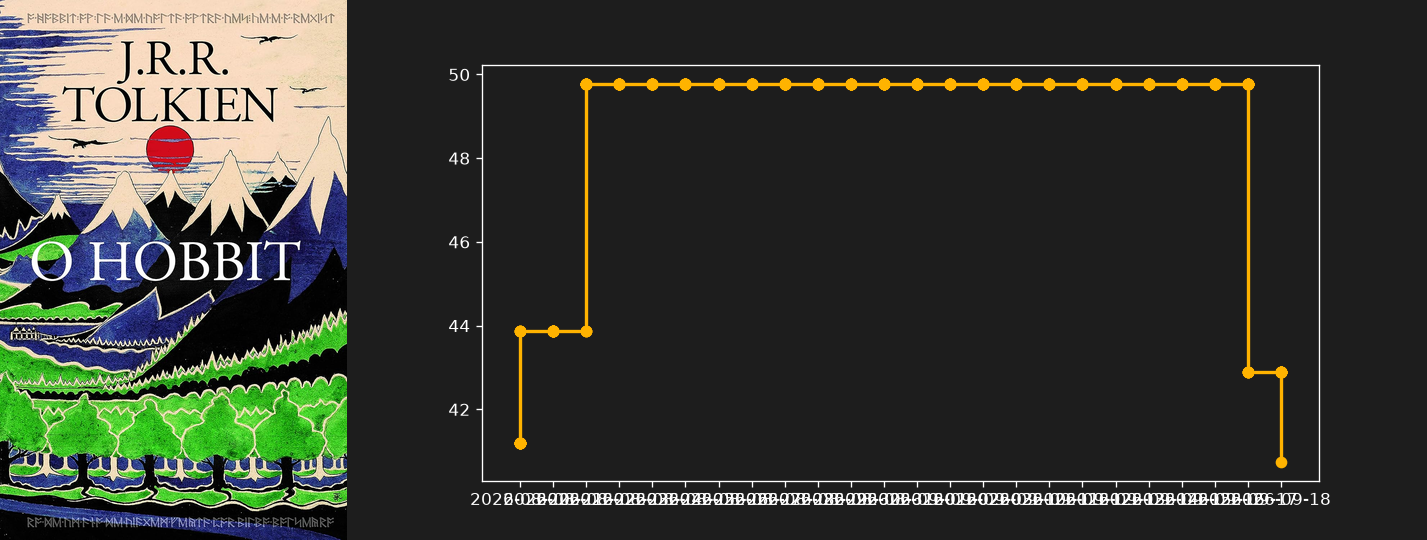
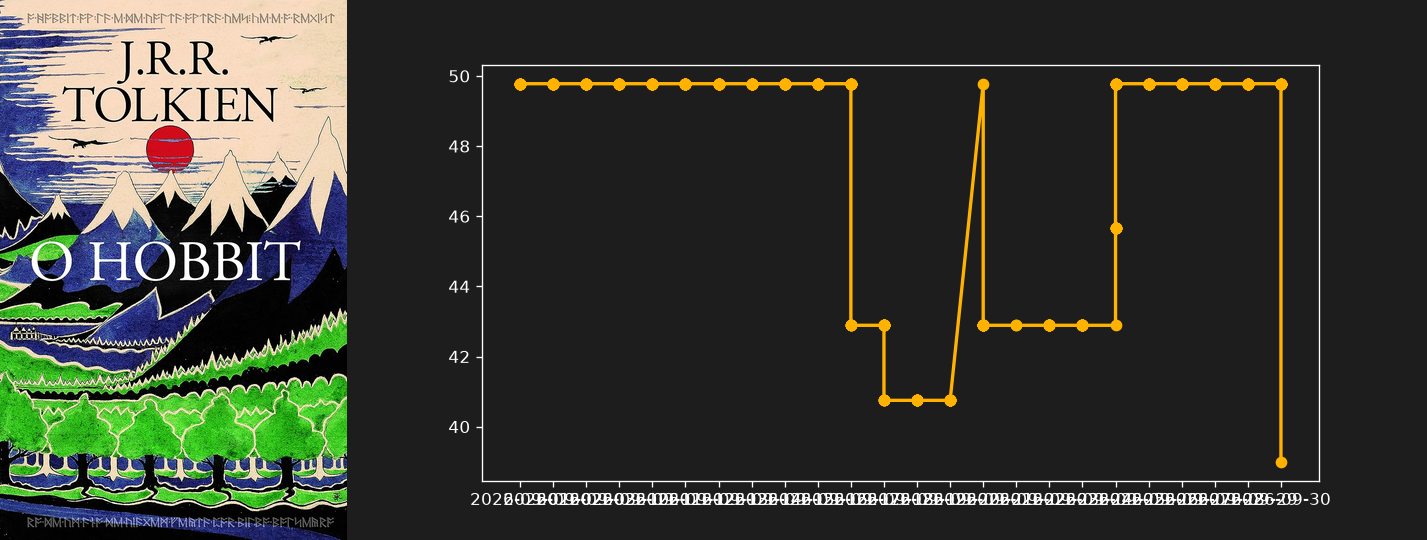
🤖 Bot Mac: Atualizando ofertas [skip ci]

diff --git a/index.html b/index.html
@@ -48,7 +48,7 @@
             <div class="flex flex-col mt-auto mb-5">
                 <div class="flex items-baseline gap-2">
                     <span class="text-2xl font-bold text-white tracking-tight">R$ 279,90</span>
-                    <span class="text-sm text-gray-500 line-through">R$ 265,95</span>
+                    <span class="text-sm text-gray-500 line-through">R$ 265,98</span>
                 </div>
             </div>
             <a href="https://link.amazon/B0bxqDHXJ" target="_blank" rel="nofollow noopener" class="w-full flex items-center justify-center gap-2 py-2.5 rounded-xl bg-white/5 hover:bg-bardo-gold hover:text-bardo-dark text-sm font-bold text-gray-200 transition-all">Comprar na Amazon</a>
@@ -68,7 +68,7 @@
             <div class="flex flex-col mt-auto mb-5">
                 <div class="flex items-baseline gap-2">
                     <span class="text-2xl font-bold text-white tracking-tight">R$ 60,57</span>
-                    <span class="text-sm text-gray-500 line-through">R$ 63,41</span>
+                    <span class="text-sm text-gray-500 line-through">R$ 63,40</span>
                 </div>
             </div>
             <a href="https://link.amazon/B05C027gt" target="_blank" rel="nofollow noopener" class="w-full flex items-center justify-center gap-2 py-2.5 rounded-xl bg-white/5 hover:bg-bardo-gold hover:text-bardo-dark text-sm font-bold text-gray-200 transition-all">Comprar na Amazon</a>
@@ -88,7 +88,7 @@
             <div class="flex flex-col mt-auto mb-5">
                 <div class="flex items-baseline gap-2">
                     <span class="text-2xl font-bold text-white tracking-tight">R$ 49,47</span>
-                    <span class="text-sm text-gray-500 line-through">R$ 46,56</span>
+                    <span class="text-sm text-gray-500 line-through">R$ 46,57</span>
                 </div>
             </div>
             <a href="https://link.amazon/B07BZ9Phr" target="_blank" rel="nofollow noopener" class="w-full flex items-center justify-center gap-2 py-2.5 rounded-xl bg-white/5 hover:bg-bardo-gold hover:text-bardo-dark text-sm font-bold text-gray-200 transition-all">Comprar na Amazon</a>
@@ -115,7 +115,7 @@
         </div>
     </article>
     <article class="relative flex flex-col bg-surface rounded-2xl border border-white/5 overflow-hidden hover:border-bardo-gold/40 transition-all duration-300 group shadow-lg">
-        
+        <div class="absolute top-3 left-3 z-10"><span class="px-2.5 py-1 text-[11px] font-bold uppercase tracking-wider text-emerald-400 bg-emerald-500/10 border border-emerald-500/20 rounded-full backdrop-blur-md shadow-lg">Abaixo da Média</span></div>
         <!-- Vitrine com Efeito Hover Swap -->
         <div class="relative h-64 w-full bg-gradient-to-b from-white/[0.03] to-transparent border-b border-white/5 overflow-hidden">
             <!-- Imagem 1: Capa (Soma ao Hover) -->
@@ -127,8 +127,8 @@
             <h3 class="text-base font-semibold text-gray-100 leading-snug line-clamp-2 mb-4 group-hover:text-bardo-gold transition-colors">O Hobbit + pôster</h3>
             <div class="flex flex-col mt-auto mb-5">
                 <div class="flex items-baseline gap-2">
-                    <span class="text-2xl font-bold text-white tracking-tight">R$ 49,78</span>
-                    <span class="text-sm text-gray-500 line-through">R$ 47,68</span>
+                    <span class="text-2xl font-bold text-white tracking-tight">R$ 39,00</span>
+                    <span class="text-sm text-gray-500 line-through">R$ 47,66</span>
                 </div>
             </div>
             <a href="https://link.amazon/B05Sr7Nr7" target="_blank" rel="nofollow noopener" class="w-full flex items-center justify-center gap-2 py-2.5 rounded-xl bg-white/5 hover:bg-bardo-gold hover:text-bardo-dark text-sm font-bold text-gray-200 transition-all">Comprar na Amazon</a>
@@ -148,7 +148,7 @@
             <div class="flex flex-col mt-auto mb-5">
                 <div class="flex items-baseline gap-2">
                     <span class="text-2xl font-bold text-white tracking-tight">R$ 160,65</span>
-                    <span class="text-sm text-gray-500 line-through">R$ 145,46</span>
+                    <span class="text-sm text-gray-500 line-through">R$ 145,50</span>
                 </div>
             </div>
             <a href="https://link.amazon/B04OFbHZF" target="_blank" rel="nofollow noopener" class="w-full flex items-center justify-center gap-2 py-2.5 rounded-xl bg-white/5 hover:bg-bardo-gold hover:text-bardo-dark text-sm font-bold text-gray-200 transition-all">Comprar na Amazon</a>
@@ -188,7 +188,7 @@
             <div class="flex flex-col mt-auto mb-5">
                 <div class="flex items-baseline gap-2">
                     <span class="text-2xl font-bold text-white tracking-tight">R$ 218,11</span>
-                    <span class="text-sm text-gray-500 line-through">R$ 222,86</span>
+                    <span class="text-sm text-gray-500 line-through">R$ 222,85</span>
                 </div>
             </div>
             <a href="https://link.amazon/B0cOS4omj" target="_blank" rel="nofollow noopener" class="w-full flex items-center justify-center gap-2 py-2.5 rounded-xl bg-white/5 hover:bg-bardo-gold hover:text-bardo-dark text-sm font-bold text-gray-200 transition-all">Comprar na Amazon</a>
@@ -228,7 +228,7 @@
             <div class="flex flex-col mt-auto mb-5">
                 <div class="flex items-baseline gap-2">
                     <span class="text-2xl font-bold text-white tracking-tight">R$ 82,94</span>
-                    <span class="text-sm text-gray-500 line-through">R$ 83,83</span>
+                    <span class="text-sm text-gray-500 line-through">R$ 83,82</span>
                 </div>
             </div>
             <a href="https://link.amazon/B01CIGwaZ" target="_blank" rel="nofollow noopener" class="w-full flex items-center justify-center gap-2 py-2.5 rounded-xl bg-white/5 hover:bg-bardo-gold hover:text-bardo-dark text-sm font-bold text-gray-200 transition-all">Comprar na Amazon</a>
@@ -248,7 +248,7 @@
             <div class="flex flex-col mt-auto mb-5">
                 <div class="flex items-baseline gap-2">
                     <span class="text-2xl font-bold text-white tracking-tight">R$ 414,48</span>
-                    <span class="text-sm text-gray-500 line-through">R$ 417,00</span>
+                    <span class="text-sm text-gray-500 line-through">R$ 416,99</span>
                 </div>
             </div>
             <a href="https://link.amazon/B0czAwuOp" target="_blank" rel="nofollow noopener" class="w-full flex items-center justify-center gap-2 py-2.5 rounded-xl bg-white/5 hover:bg-bardo-gold hover:text-bardo-dark text-sm font-bold text-gray-200 transition-all">Comprar na Amazon</a>
@@ -288,7 +288,7 @@
             <div class="flex flex-col mt-auto mb-5">
                 <div class="flex items-baseline gap-2">
                     <span class="text-2xl font-bold text-white tracking-tight">R$ 83,65</span>
-                    <span class="text-sm text-gray-500 line-through">R$ 81,57</span>
+                    <span class="text-sm text-gray-500 line-through">R$ 81,58</span>
                 </div>
             </div>
             <a href="https://link.amazon/B0bJ5jTSU" target="_blank" rel="nofollow noopener" class="w-full flex items-center justify-center gap-2 py-2.5 rounded-xl bg-white/5 hover:bg-bardo-gold hover:text-bardo-dark text-sm font-bold text-gray-200 transition-all">Comprar na Amazon</a>
@@ -348,7 +348,7 @@
             <div class="flex flex-col mt-auto mb-5">
                 <div class="flex items-baseline gap-2">
                     <span class="text-2xl font-bold text-white tracking-tight">R$ 59,75</span>
-                    <span class="text-sm text-gray-500 line-through">R$ 60,51</span>
+                    <span class="text-sm text-gray-500 line-through">R$ 60,50</span>
                 </div>
             </div>
             <a href="https://link.amazon/B00tEF0jN" target="_blank" rel="nofollow noopener" class="w-full flex items-center justify-center gap-2 py-2.5 rounded-xl bg-white/5 hover:bg-bardo-gold hover:text-bardo-dark text-sm font-bold text-gray-200 transition-all">Comprar na Amazon</a>
@@ -368,7 +368,7 @@
             <div class="flex flex-col mt-auto mb-5">
                 <div class="flex items-baseline gap-2">
                     <span class="text-2xl font-bold text-white tracking-tight">R$ 120,60</span>
-                    <span class="text-sm text-gray-500 line-through">R$ 104,95</span>
+                    <span class="text-sm text-gray-500 line-through">R$ 104,99</span>
                 </div>
             </div>
             <a href="https://link.amazon/B0g8PJdyP" target="_blank" rel="nofollow noopener" class="w-full flex items-center justify-center gap-2 py-2.5 rounded-xl bg-white/5 hover:bg-bardo-gold hover:text-bardo-dark text-sm font-bold text-gray-200 transition-all">Comprar na Amazon</a>
@@ -408,7 +408,7 @@
             <div class="flex flex-col mt-auto mb-5">
                 <div class="flex items-baseline gap-2">
                     <span class="text-2xl font-bold text-white tracking-tight">R$ 130,50</span>
-                    <span class="text-sm text-gray-500 line-through">R$ 129,06</span>
+                    <span class="text-sm text-gray-500 line-through">R$ 129,07</span>
                 </div>
             </div>
             <a href="https://link.amazon/B0cBFS3o1" target="_blank" rel="nofollow noopener" class="w-full flex items-center justify-center gap-2 py-2.5 rounded-xl bg-white/5 hover:bg-bardo-gold hover:text-bardo-dark text-sm font-bold text-gray-200 transition-all">Comprar na Amazon</a>
@@ -428,7 +428,7 @@
             <div class="flex flex-col mt-auto mb-5">
                 <div class="flex items-baseline gap-2">
                     <span class="text-2xl font-bold text-white tracking-tight">R$ 139,90</span>
-                    <span class="text-sm text-gray-500 line-through">R$ 144,34</span>
+                    <span class="text-sm text-gray-500 line-through">R$ 144,33</span>
                 </div>
             </div>
             <a href="https://link.amazon/B0f81O992" target="_blank" rel="nofollow noopener" class="w-full flex items-center justify-center gap-2 py-2.5 rounded-xl bg-white/5 hover:bg-bardo-gold hover:text-bardo-dark text-sm font-bold text-gray-200 transition-all">Comprar na Amazon</a>
@@ -468,7 +468,7 @@
             <div class="flex flex-col mt-auto mb-5">
                 <div class="flex items-baseline gap-2">
                     <span class="text-2xl font-bold text-white tracking-tight">R$ 53,90</span>
-                    <span class="text-sm text-gray-500 line-through">R$ 53,06</span>
+                    <span class="text-sm text-gray-500 line-through">R$ 53,07</span>
                 </div>
             </div>
             <a href="https://link.amazon/B0h9jyezR" target="_blank" rel="nofollow noopener" class="w-full flex items-center justify-center gap-2 py-2.5 rounded-xl bg-white/5 hover:bg-bardo-gold hover:text-bardo-dark text-sm font-bold text-gray-200 transition-all">Comprar na Amazon</a>
@@ -488,7 +488,7 @@
             <div class="flex flex-col mt-auto mb-5">
                 <div class="flex items-baseline gap-2">
                     <span class="text-2xl font-bold text-white tracking-tight">R$ 37,27</span>
-                    <span class="text-sm text-gray-500 line-through">R$ 38,50</span>
+                    <span class="text-sm text-gray-500 line-through">R$ 38,49</span>
                 </div>
             </div>
             <a href="https://link.amazon/B0eRR4Vm5" target="_blank" rel="nofollow noopener" class="w-full flex items-center justify-center gap-2 py-2.5 rounded-xl bg-white/5 hover:bg-bardo-gold hover:text-bardo-dark text-sm font-bold text-gray-200 transition-all">Comprar na Amazon</a>
@@ -588,7 +588,7 @@
             <div class="flex flex-col mt-auto mb-5">
                 <div class="flex items-baseline gap-2">
                     <span class="text-2xl font-bold text-white tracking-tight">R$ 210,79</span>
-                    <span class="text-sm text-gray-500 line-through">R$ 270,74</span>
+                    <span class="text-sm text-gray-500 line-through">R$ 270,59</span>
                 </div>
             </div>
             <a href="https://link.amazon/B046QvncM" target="_blank" rel="nofollow noopener" class="w-full flex items-center justify-center gap-2 py-2.5 rounded-xl bg-white/5 hover:bg-bardo-gold hover:text-bardo-dark text-sm font-bold text-gray-200 transition-all">Comprar na Amazon</a>
@@ -608,7 +608,7 @@
             <div class="flex flex-col mt-auto mb-5">
                 <div class="flex items-baseline gap-2">
                     <span class="text-2xl font-bold text-white tracking-tight">R$ 192,75</span>
-                    <span class="text-sm text-gray-500 line-through">R$ 183,63</span>
+                    <span class="text-sm text-gray-500 line-through">R$ 183,65</span>
                 </div>
             </div>
             <a href="https://link.amazon/B037mPoB1" target="_blank" rel="nofollow noopener" class="w-full flex items-center justify-center gap-2 py-2.5 rounded-xl bg-white/5 hover:bg-bardo-gold hover:text-bardo-dark text-sm font-bold text-gray-200 transition-all">Comprar na Amazon</a>
@@ -648,7 +648,7 @@
             <div class="flex flex-col mt-auto mb-5">
                 <div class="flex items-baseline gap-2">
                     <span class="text-2xl font-bold text-white tracking-tight">R$ 53,94</span>
-                    <span class="text-sm text-gray-500 line-through">R$ 51,54</span>
+                    <span class="text-sm text-gray-500 line-through">R$ 51,55</span>
                 </div>
             </div>
             <a href="https://link.amazon/B0cIs9iDO" target="_blank" rel="nofollow noopener" class="w-full flex items-center justify-center gap-2 py-2.5 rounded-xl bg-white/5 hover:bg-bardo-gold hover:text-bardo-dark text-sm font-bold text-gray-200 transition-all">Comprar na Amazon</a>
@@ -668,7 +668,7 @@
             <div class="flex flex-col mt-auto mb-5">
                 <div class="flex items-baseline gap-2">
                     <span class="text-2xl font-bold text-white tracking-tight">R$ 52,21</span>
-                    <span class="text-sm text-gray-500 line-through">R$ 52,57</span>
+                    <span class="text-sm text-gray-500 line-through">R$ 52,56</span>
                 </div>
             </div>
             <a href="https://link.amazon/B0gViTEpL" target="_blank" rel="nofollow noopener" class="w-full flex items-center justify-center gap-2 py-2.5 rounded-xl bg-white/5 hover:bg-bardo-gold hover:text-bardo-dark text-sm font-bold text-gray-200 transition-all">Comprar na Amazon</a>
@@ -688,7 +688,7 @@
             <div class="flex flex-col mt-auto mb-5">
                 <div class="flex items-baseline gap-2">
                     <span class="text-2xl font-bold text-white tracking-tight">R$ 59,75</span>
-                    <span class="text-sm text-gray-500 line-through">R$ 50,22</span>
+                    <span class="text-sm text-gray-500 line-through">R$ 50,24</span>
                 </div>
             </div>
             <a href="https://link.amazon/B08nADndv" target="_blank" rel="nofollow noopener" class="w-full flex items-center justify-center gap-2 py-2.5 rounded-xl bg-white/5 hover:bg-bardo-gold hover:text-bardo-dark text-sm font-bold text-gray-200 transition-all">Comprar na Amazon</a>
@@ -748,7 +748,7 @@
             <div class="flex flex-col mt-auto mb-5">
                 <div class="flex items-baseline gap-2">
                     <span class="text-2xl font-bold text-white tracking-tight">R$ 72,65</span>
-                    <span class="text-sm text-gray-500 line-through">R$ 68,90</span>
+                    <span class="text-sm text-gray-500 line-through">R$ 68,91</span>
                 </div>
             </div>
             <a href="https://link.amazon/B053gl2cU" target="_blank" rel="nofollow noopener" class="w-full flex items-center justify-center gap-2 py-2.5 rounded-xl bg-white/5 hover:bg-bardo-gold hover:text-bardo-dark text-sm font-bold text-gray-200 transition-all">Comprar na Amazon</a>
@@ -768,7 +768,7 @@
             <div class="flex flex-col mt-auto mb-5">
                 <div class="flex items-baseline gap-2">
                     <span class="text-2xl font-bold text-white tracking-tight">R$ 62,59</span>
-                    <span class="text-sm text-gray-500 line-through">R$ 65,08</span>
+                    <span class="text-sm text-gray-500 line-through">R$ 65,07</span>
                 </div>
             </div>
             <a href="https://link.amazon/B09R1newk" target="_blank" rel="nofollow noopener" class="w-full flex items-center justify-center gap-2 py-2.5 rounded-xl bg-white/5 hover:bg-bardo-gold hover:text-bardo-dark text-sm font-bold text-gray-200 transition-all">Comprar na Amazon</a>
@@ -808,7 +808,7 @@
             <div class="flex flex-col mt-auto mb-5">
                 <div class="flex items-baseline gap-2">
                     <span class="text-2xl font-bold text-white tracking-tight">R$ 131,49</span>
-                    <span class="text-sm text-gray-500 line-through">R$ 161,27</span>
+                    <span class="text-sm text-gray-500 line-through">R$ 161,20</span>
                 </div>
             </div>
             <a href="https://link.amazon/B02R68ory" target="_blank" rel="nofollow noopener" class="w-full flex items-center justify-center gap-2 py-2.5 rounded-xl bg-white/5 hover:bg-bardo-gold hover:text-bardo-dark text-sm font-bold text-gray-200 transition-all">Comprar na Amazon</a>
@@ -848,7 +848,7 @@
             <div class="flex flex-col mt-auto mb-5">
                 <div class="flex items-baseline gap-2">
                     <span class="text-2xl font-bold text-white tracking-tight">R$ 473,33</span>
-                    <span class="text-sm text-gray-500 line-through">R$ 415,10</span>
+                    <span class="text-sm text-gray-500 line-through">R$ 415,25</span>
                 </div>
             </div>
             <a href="https://link.amazon/B04zvHdbV" target="_blank" rel="nofollow noopener" class="w-full flex items-center justify-center gap-2 py-2.5 rounded-xl bg-white/5 hover:bg-bardo-gold hover:text-bardo-dark text-sm font-bold text-gray-200 transition-all">Comprar na Amazon</a>
@@ -908,7 +908,7 @@
             <div class="flex flex-col mt-auto mb-5">
                 <div class="flex items-baseline gap-2">
                     <span class="text-2xl font-bold text-white tracking-tight">R$ 67,16</span>
-                    <span class="text-sm text-gray-500 line-through">R$ 64,20</span>
+                    <span class="text-sm text-gray-500 line-through">R$ 64,21</span>
                 </div>
             </div>
             <a href="https://link.amazon/B0dQomOl4" target="_blank" rel="nofollow noopener" class="w-full flex items-center justify-center gap-2 py-2.5 rounded-xl bg-white/5 hover:bg-bardo-gold hover:text-bardo-dark text-sm font-bold text-gray-200 transition-all">Comprar na Amazon</a>
@@ -948,7 +948,7 @@
             <div class="flex flex-col mt-auto mb-5">
                 <div class="flex items-baseline gap-2">
                     <span class="text-2xl font-bold text-white tracking-tight">R$ 153,09</span>
-                    <span class="text-sm text-gray-500 line-through">R$ 160,63</span>
+                    <span class="text-sm text-gray-500 line-through">R$ 160,62</span>
                 </div>
             </div>
             <a href="https://link.amazon/B0fmYiyYt" target="_blank" rel="nofollow noopener" class="w-full flex items-center justify-center gap-2 py-2.5 rounded-xl bg-white/5 hover:bg-bardo-gold hover:text-bardo-dark text-sm font-bold text-gray-200 transition-all">Comprar na Amazon</a>
@@ -988,7 +988,7 @@
             <div class="flex flex-col mt-auto mb-5">
                 <div class="flex items-baseline gap-2">
                     <span class="text-2xl font-bold text-white tracking-tight">R$ 298,86</span>
-                    <span class="text-sm text-gray-500 line-through">R$ 341,40</span>
+                    <span class="text-sm text-gray-500 line-through">R$ 341,30</span>
                 </div>
             </div>
             <a href="https://link.amazon/B02mXXqIa" target="_blank" rel="nofollow noopener" class="w-full flex items-center justify-center gap-2 py-2.5 rounded-xl bg-white/5 hover:bg-bardo-gold hover:text-bardo-dark text-sm font-bold text-gray-200 transition-all">Comprar na Amazon</a>
@@ -1008,7 +1008,7 @@
             <div class="flex flex-col mt-auto mb-5">
                 <div class="flex items-baseline gap-2">
                     <span class="text-2xl font-bold text-white tracking-tight">R$ 218,40</span>
-                    <span class="text-sm text-gray-500 line-through">R$ 224,15</span>
+                    <span class="text-sm text-gray-500 line-through">R$ 224,13</span>
                 </div>
             </div>
             <a href="https://link.amazon/B01sIcUyP" target="_blank" rel="nofollow noopener" class="w-full flex items-center justify-center gap-2 py-2.5 rounded-xl bg-white/5 hover:bg-bardo-gold hover:text-bardo-dark text-sm font-bold text-gray-200 transition-all">Comprar na Amazon</a>
